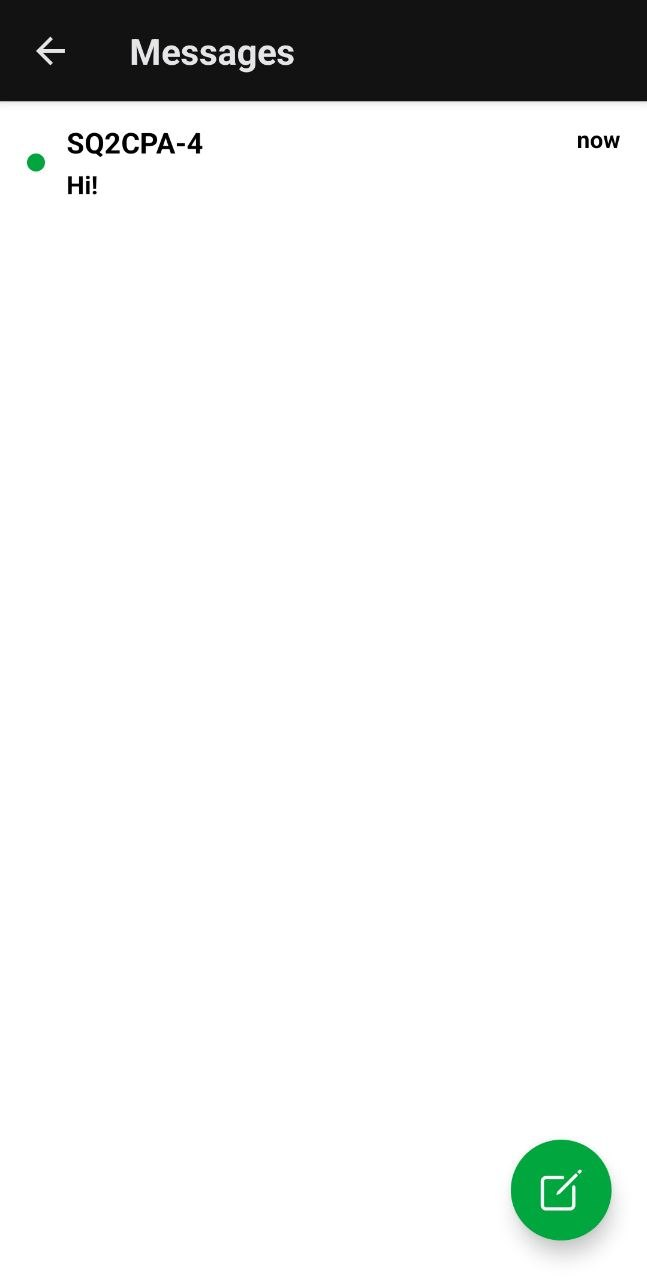
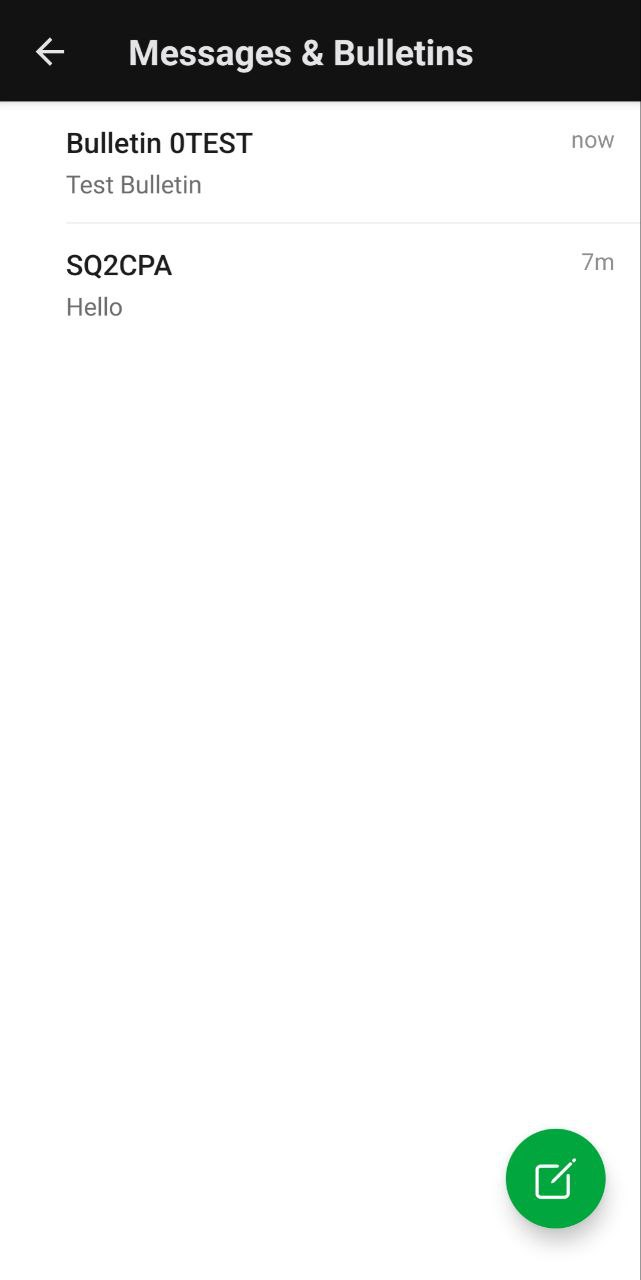
feat: mobile app messages system explained

diff --git a/lora_aprs_mobile_app/messages.md b/lora_aprs_mobile_app/messages.md
@@ -1,10 +1,20 @@
 ---
 layout: mobile_app
-title: Messages
+title: Messages & Bulletins
 permalink: /lora_aprs_mobile_app/messages/
 ---
 
-The app includes a full-featured APRS messaging system. You can manage all your conversations from the main screen.
+The app includes a full-featured, redesigned APRS messaging system. Bulletins are also displayed in the messages section alongside regular conversations.
+
+---
+
+## How the Messaging System Works
+
+The messaging system has been rebuilt from the ground up. Here are the key principles:
+
+- **All messages for your callsign are received** - any message addressed to your callsign will be displayed and automatically acknowledged (ACK), regardless of the SSID. We believe all messages sent to your callsign are relevant to you, no matter which SSID was targeted.
+- **Multiple callsigns are supported** - if you have other devices on your device list (e.g. automatic/home stations with different callsigns), those callsigns are also treated as yours. Every callsign present on your device list is considered your own.
+- **Conversations are grouped by callsign, not SSID** - you will see a single conversation per remote callsign. The app automatically determines the correct SSID to send your messages to. If the other station replies from a different SSID (for example, they moved from a mobile device to a home station), the app seamlessly updates and continues the conversation on the new SSID. You never have to worry about SSIDs - everything is handled automatically and transparently.
 
 ---
 
@@ -14,18 +24,32 @@ On the **Main Screen**, you will find the **Messages Section**.
 
 <img src="/assets/images/lora_aprs_mobile_app/messages/messages-section.jpg" alt="Messages Section on Main Screen" style="max-width: 300px; width: 100%;">
 
--   **Messages List (Chat Icon)**: Tapping this button opens your full conversation list. If you have unread messages, a badge will appear on this icon indicating the count.
--   **New Message (Pencil Icon)**: This button, located next to the chat icon, opens a new, blank message screen.
+- **Messages List (Chat Icon)**: Tapping this button opens your full conversation list. If you have unread messages, a badge will appear on this icon indicating the count.
+- **New Message (Pencil Icon)**: This button, located next to the chat icon, opens a new, blank message screen.
 
 ---
 
 ## New Message Screen
 
-When you tap the "New Message" button, you are taken to the compose screen.
+When you tap the "New Message" button, you are taken to the compose screen. There are three message types you can choose from:
 
-<img src="/assets/images/lora_aprs_mobile_app/messages/new-message.jpg" alt="New Message Screen" style="max-width: 300px; width: 100%;">
+### Normal Message
 
-Here, you can enter the recipient's **Callsign** (with optional **SSID**) and your **Message** content. After pressing the send button, you will be automatically redirected to the conversation screen for that recipient.
+<img src="/assets/images/lora_aprs_mobile_app/messages/new-message-normal.jpg" alt="New Normal Message Screen" style="max-width: 300px; width: 100%;">
+
+A standard message sent to a specific recipient. Enter the recipient's **Callsign** (with optional **SSID**) and your **Message** content. After pressing the send button, you will be automatically redirected to the conversation screen for that recipient. The app will wait for an **ACK** (acknowledgment) from the recipient.
+
+### CQ Message
+
+<img src="/assets/images/lora_aprs_mobile_app/messages/new-message-cq.jpg" alt="New CQ Message Screen" style="max-width: 300px; width: 100%;">
+
+A CQ message is sent as a bulletin with the ID `BLN1CQ`. All other compatible apps will display this message as if you sent it directly to them. This is useful for calling out to anyone listening. Since it is a bulletin, you will **not** receive an ACK.
+
+### Bulletin
+
+<img src="/assets/images/lora_aprs_mobile_app/messages/new-message-bulletin.jpg" alt="New Bulletin Screen" style="max-width: 300px; width: 100%;">
+
+A bulletin allows you to broadcast a message to all stations. You need to provide a **Bulletin ID** (1–6 characters, `0-9` `A-Z`, e.g. `1ALERT`, `1WX`, or just `5`) and your **Message** content. Bulletins are one-way - you will **not** receive an ACK.
 
 ---
 
@@ -35,9 +59,9 @@ This screen shows all your separate conversations.
 
 <img src="/assets/images/lora_aprs_mobile_app/messages/conversation-list.jpg" alt="Conversation List Screen" style="max-width: 300px; width: 100%;">
 
--   It's a standard conversation list. Unread conversations are highlighted.
--   At the bottom, there is a floating button to create a new conversation (which takes you to the New Message Screen).
--   **To delete a conversation**, long-press any conversation in the list, and a delete option will appear.
+- It's a standard conversation list. Unread conversations are highlighted.
+- At the bottom, there is a floating button to create a new conversation (which takes you to the New Message Screen).
+- **To delete a conversation**, long-press any conversation in the list, and a delete option will appear.
 
 ---
 
@@ -47,12 +71,34 @@ This is a standard chat screen showing the history with a specific station.
 
 <img src="/assets/images/lora_aprs_mobile_app/messages/conversation-view.jpg" alt="Conversation View Screen" style="max-width: 300px; width: 100%;">
 
--   **Received Messages**:
-    -   Displays information about whether an `ACK` (acknowledgment) was successfully sent back from your device.
-    -   Messages received via **TCPIP** (from the internet, not RF) are marked with a "network" symbol.
--   **Sent Messages**:
-    -   Displays information about whether an `ACK` was received from the recipient.
-    -   A **person icon** next to a sent message indicates that the `ACK` was received from a compatible app (like another LoRa APRS App user), meaning it was likely a manually confirmed reply, not an automatic one.
--   **Message Actions**: If you **long-press one of your own sent messages**, a menu will appear allowing you to:
-    -   **Cancel Sending**: If the message is still in the queue to be sent.
-    -   **Resend**: To try sending the message again (e.g., if it failed or received no ACK).
+In the top-right corner you will see the **callsign with SSID** - this is the SSID that your messages are currently being sent to, serving as an informational indicator. Next to it there are two icons:
+
+- **Predefined Messages (left icon)**: Opens a list of predefined messages that you can quickly recall, edit, and send. This is especially useful for activities like **SOTA**, **POTA**, and similar operations where you frequently send the same messages.
+
+<img src="/assets/images/lora_aprs_mobile_app/messages/predefined-messages.jpg" alt="Predefined Messages" style="max-width: 300px; width: 100%;">
+
+- **Query Commands (right icon)**: Opens a toolkit of query commands. Useful when you want to quickly send a query command to a station but don't remember the exact syntax.
+
+<img src="/assets/images/lora_aprs_mobile_app/messages/query-commands.jpg" alt="Query Commands" style="max-width: 300px; width: 100%;">
+
+### Message Details
+
+- **Received Messages**:
+    - Displays information about whether an `ACK` (acknowledgment) was successfully sent back from your device.
+    - Messages received via **TCPIP** (from the internet, not RF) are marked with a "network" symbol.
+- **Sent Messages**:
+    - Displays information about whether an `ACK` was received from the recipient.
+    - A **person icon** next to a sent message indicates that the `ACK` was received from a compatible app (like another LoRa APRS App user), meaning it was likely a manually confirmed reply, not an automatic one.
+- **Message Actions**: If you **long-press one of your own sent messages**, a menu will appear allowing you to:
+    - **Cancel Sending**: If the message is still in the queue to be sent.
+    - **Resend**: To try sending the message again (e.g., if it failed or received no ACK).
+
+---
+
+## Bulletin View
+
+<img src="/assets/images/lora_aprs_mobile_app/messages/bulletin.jpg" alt="Bulletin View" style="max-width: 300px; width: 100%;">
+
+When you open a bulletin conversation, the screen displays the **Bulletin ID** at the top. Unlike regular conversations, there are no predefined messages or query command options available.
+
+**Important**: If you reply to a bulletin, your response will be sent as a bulletin with the same Bulletin ID - it will **not** be sent as a direct message to the original sender.
